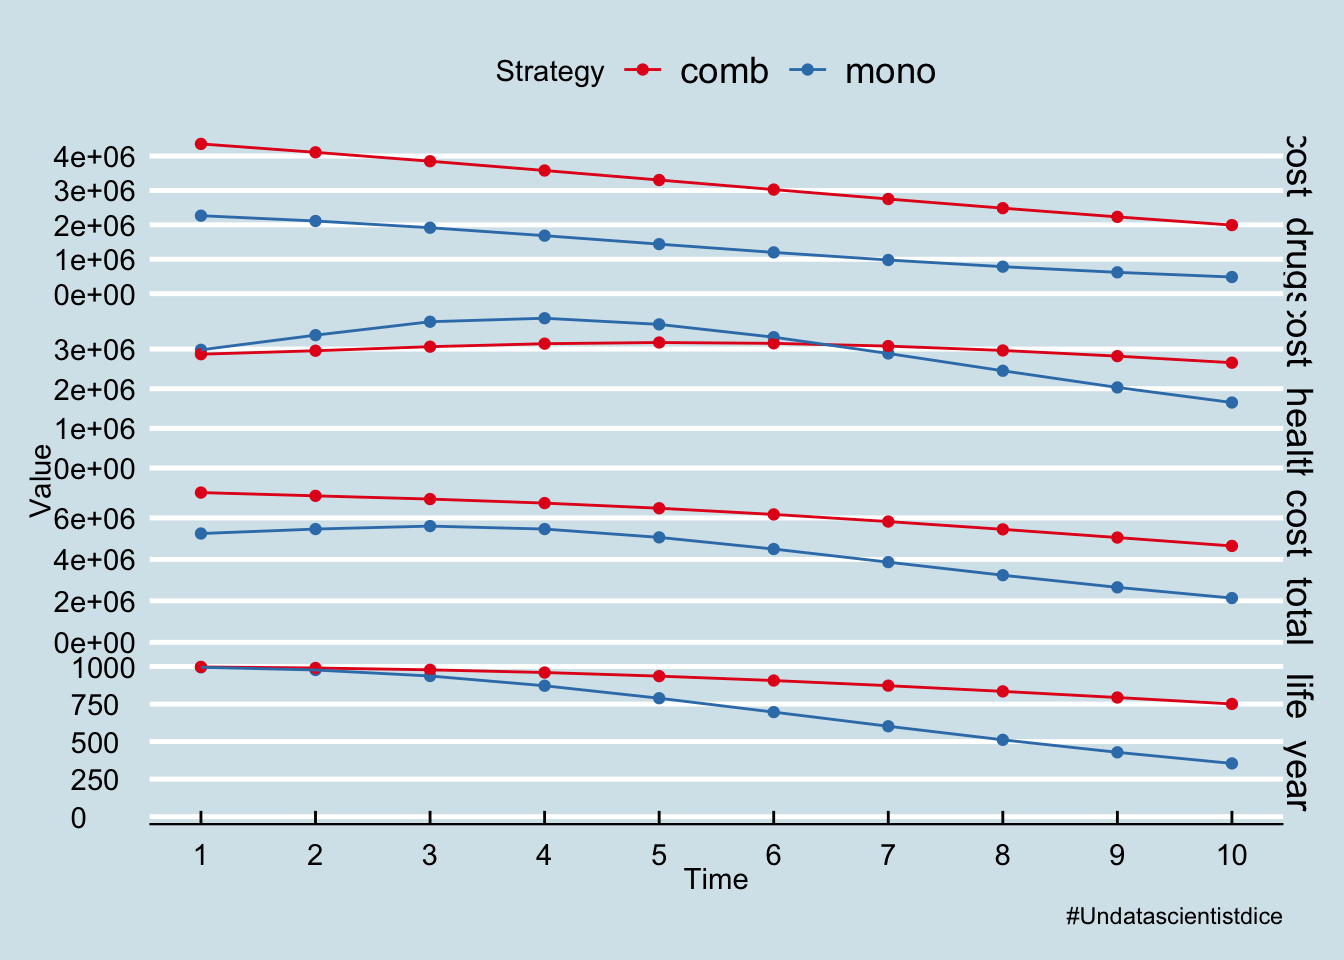
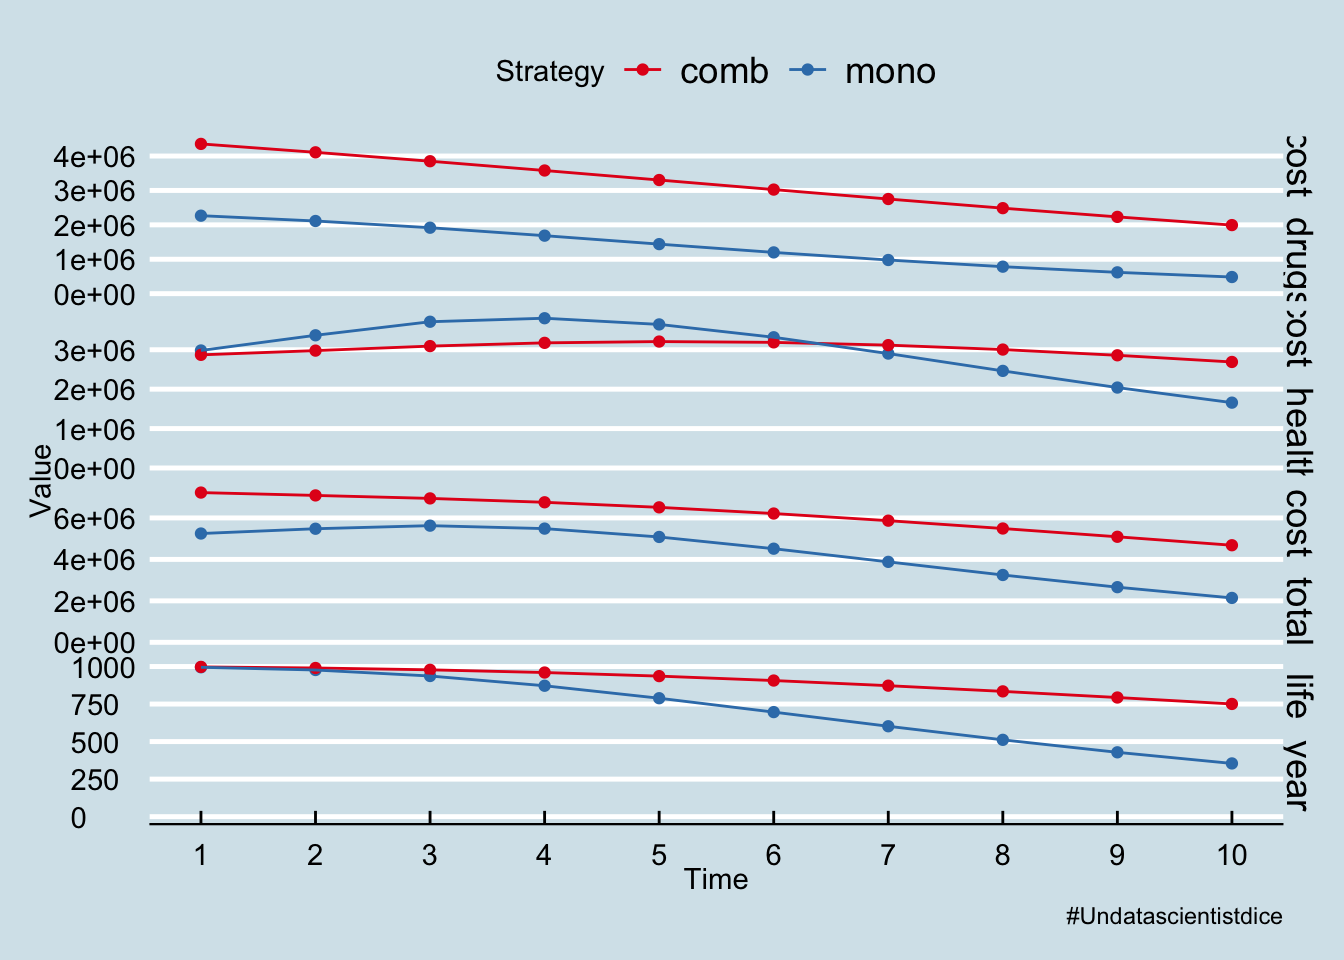
Changes

diff --git a/content/post/2020-08-09-MarkovChain.html b/content/post/2020-08-09-MarkovChain.html
@@ -21,10 +21,13 @@ P(X_{n}=i_n|X_{n-1}=i_{n-1})=P(X_{n}=i_n|X_{0}=i_{0},X_{1}=i_{1},...,X_{n}=i_{n}
 p(x_n,y_n)=min\{\frac{f_{(y_n)}q(x_n|y_n)}{f_{(y_n)}q(y_n|x_n)}\}
 \]</span></p>
 <p>En donde los valores de la cadena son</p>
-<ul>
-<li><span class="math inline">\(X_{n+1} = y_n\)</span>, con probabilidad <span class="math inline">\(p(x_n,y_n)\)</span>;</li>
-<li><span class="math inline">\(X_{n+1} = x_n\)</span>, con probabilidad <span class="math inline">\(1-p(x_n,y_n)\)</span></li>
-</ul>
+<p><span class="math display">\[
+ X_{n+1} =
+  \begin{cases}
+    y_n       &amp; \quad \text{Con probabilidad }  p(x_n,y_n) \\
+    x_n  &amp; \quad \text{Con probabilidad } 1-p(x_n,y_n)
+  \end{cases}
+\]</span></p>
 <p>Dicho lo anterior suponga que quiere modelar los siguientes valores:</p>
 <p><span class="math display">\[
 f(x) \propto e^{(-[x-4]/2)^{1/3}}
@@ -87,22 +90,9 @@ curve(full_int,add = TRUE,col=2)</code></pre>
 <p>A continuación se gráfica el grupo de terapia combinada:</p>
 <p><img src="/post/2020-08-09-MarkovChain_files/figure-html/unnamed-chunk-11-1.png" width="672" /></p>
 <p>Ahora se estudia el costo de los medicamentos y de atención, para determinar la diferencia entre los tratamientos a través de un diferencial del 5%.</p>
-<pre class="r"><code>cost_zido &lt;- 2278
-cost_lami &lt;- 2086
-
-state_A &lt;- define_state(
-    cost_health = discount(2756, .06),
-    cost_drugs = discount(dispatch_strategy(
-      mono = cost_zido,
-      comb = cost_zido + cost_lami
-    ), .05),
-    cost_total = cost_health + cost_drugs,
-    life_year = 1
-  )
-state_A</code></pre>
 <pre><code>## A state with 4 values.
 ## 
-## cost_health = discount(2756, 0.06)
+## cost_health = discount(2756, 0.05)
 ## cost_drugs = discount(dispatch_strategy(mono = cost_zido, comb = cost_zido + 
 ##     cost_lami), 0.05)
 ## cost_total = cost_health + cost_drugs
@@ -123,14 +113,14 @@ state_A</code></pre>
 ## Values:
 ## 
 ##      cost_health cost_drugs cost_total life_year
-## mono    29750793   13485464   43236257  7162.832
-## comb    29854087   31678833   61532920  9019.740
+## mono    29884901   13485464   43370364  7162.832
+## comb    30184018   31678833   61862851  9019.740
 ## 
 ## Net monetary benefit difference:
 ## 
 ##          1000     5000     6000    10000
-## mono 16439.76 9012.124 7155.216   0.0000
-## comb     0.00    0.000    0.000 272.4151
+## mono 16635.58 9207.947 7351.039  0.00000
+## comb     0.00    0.000    0.000 76.59233
 ## 
 ## Efficiency frontier:
 ## 
@@ -139,7 +129,7 @@ state_A</code></pre>
 ## Differences:
 ## 
 ##      Cost Diff. Effect Diff.     ICER Ref.
-## comb   18296.66     1.856908 9853.296 mono</code></pre>
+## comb   18492.49     1.856908 9958.753 mono</code></pre>
 <p>El resultado es que la relación costo- eficiencia de la terapia es de $18296.66 por año de vida ganado. Gráficamente lo anterior se entiende así.</p>
 <p><img src="/post/2020-08-09-MarkovChain_files/figure-html/unnamed-chunk-17-1.png" width="672" /></p>
 <p><img src="/post/2020-08-09-MarkovChain_files/figure-html/unnamed-chunk-18-1.png" width="672" /></p>
